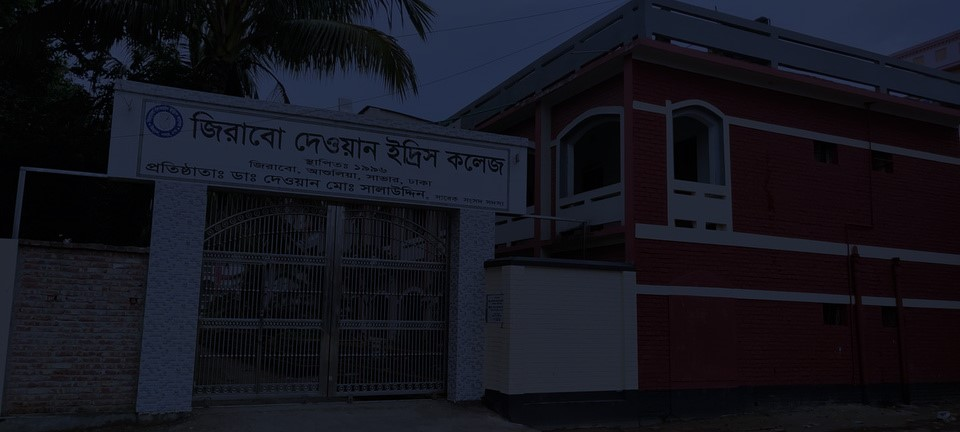
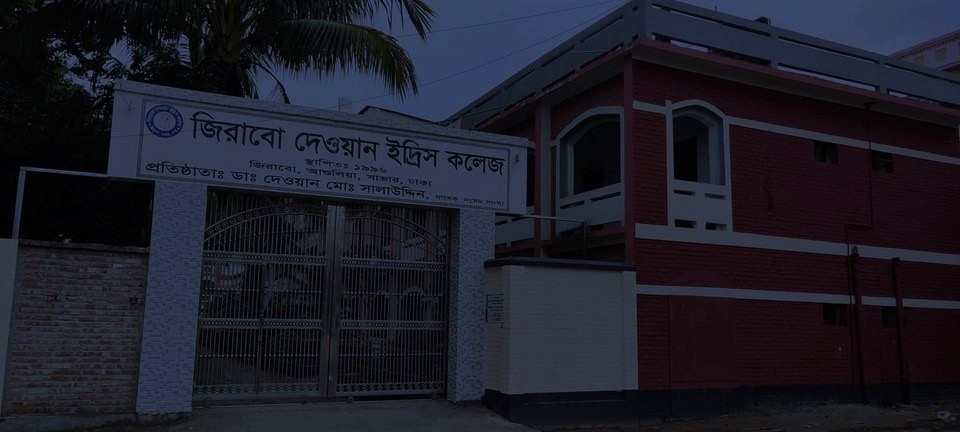
responsive bg img

diff --git a/style.css b/style.css
@@ -74,6 +74,16 @@ header nav{
 /* media for mobile  */
 
 @media only screen and (max-width:900px) {
+
+    header{
+        background-image: url(images/bg2.jpg);
+        background-repeat: no-repeat;
+        background-size: cover;
+        background-position: center center;
+        height: 100vh;
+        width: 100%;
+    }
+
     header nav{
         padding: 0 20px;
     }
@@ -91,7 +101,7 @@ header nav{
     .navmenu ul{
         display: block;
         text-align: center;
-        margin: 10% 0;
+        margin: 20% 0;
     }
 
     .navmenu ul li{
